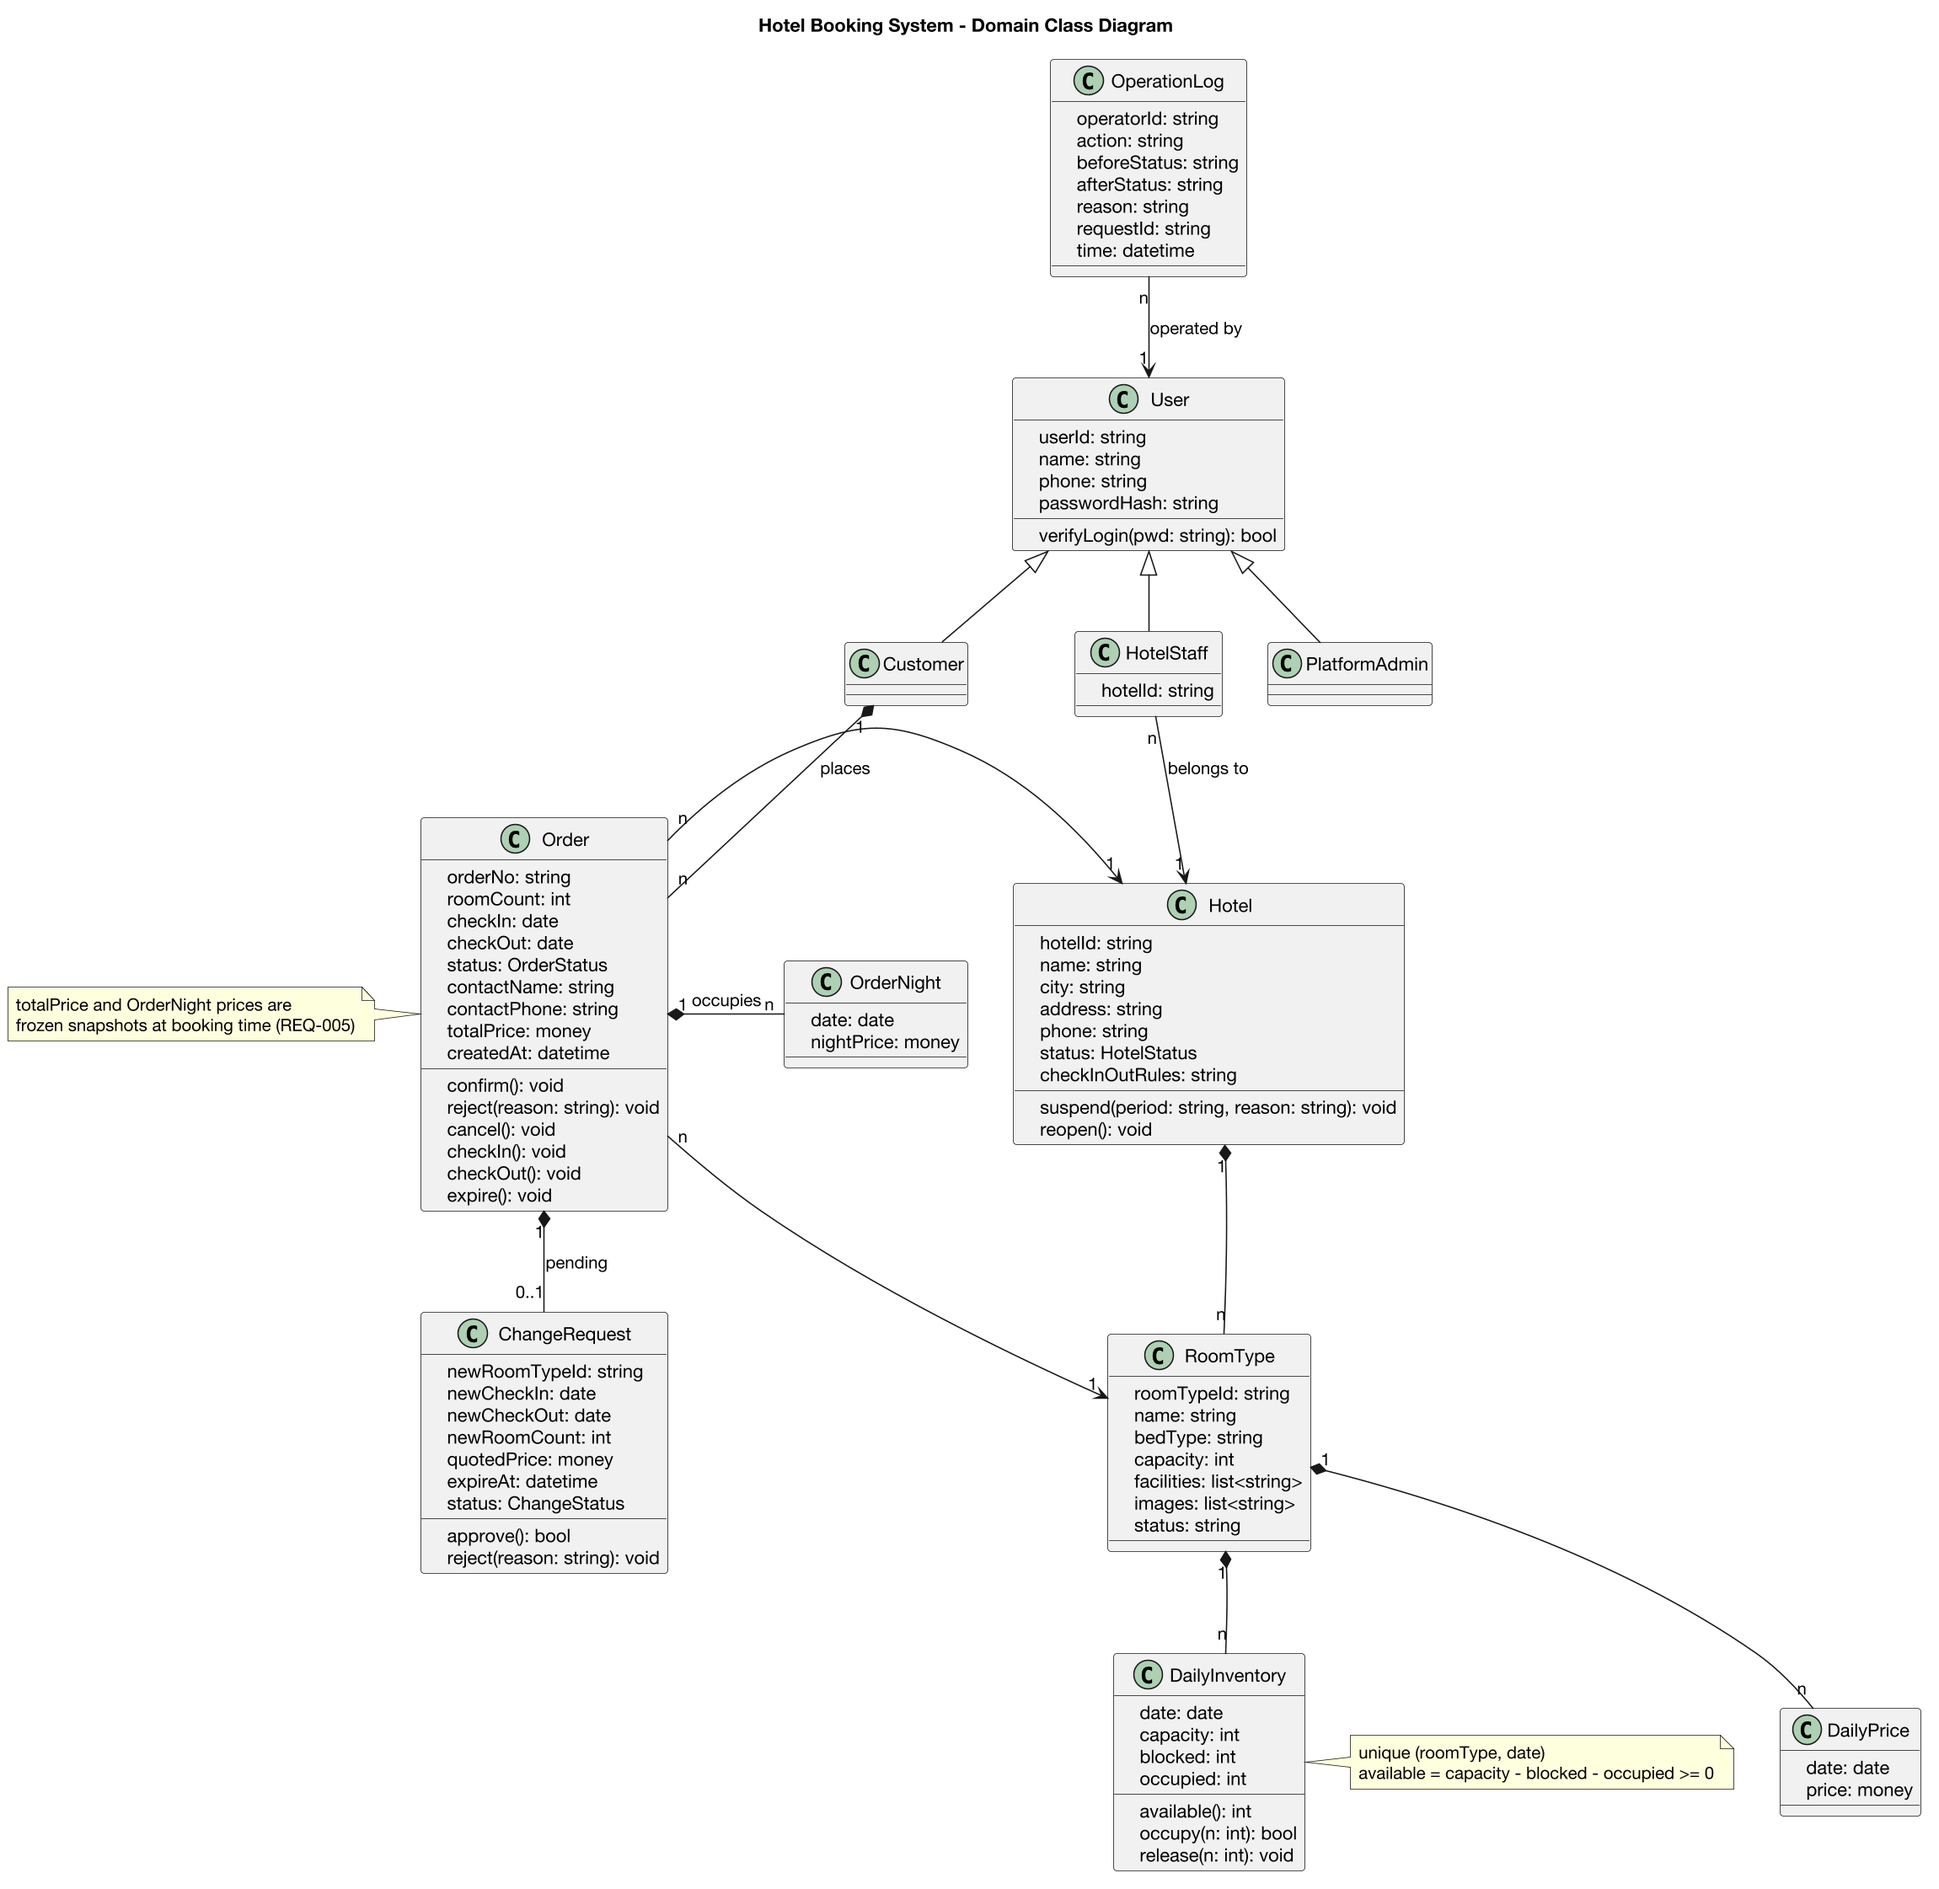
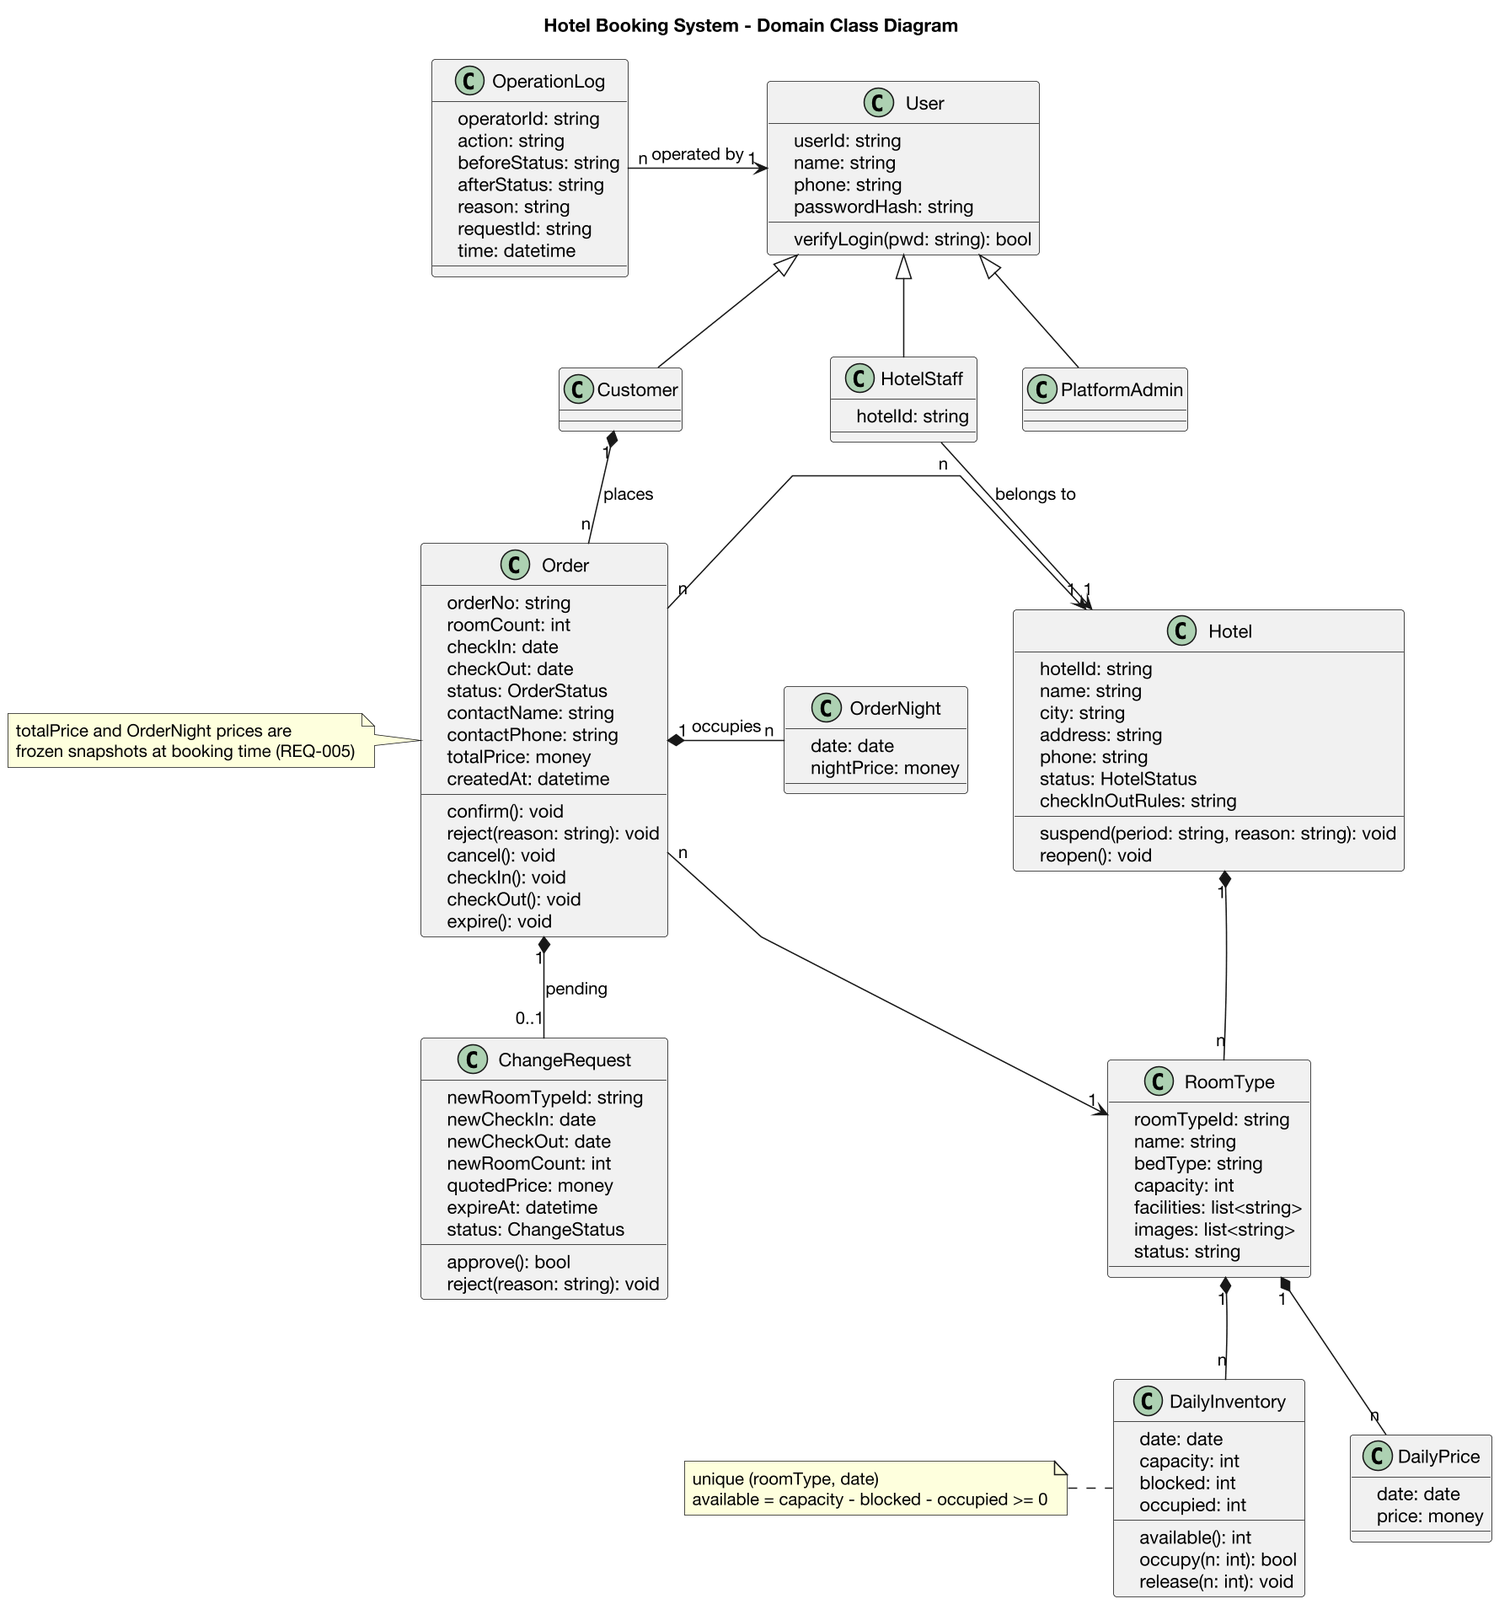
人工反馈+AI修改(lab2): 类图连线改直线、布局填满画面

diff --git a/lab2/过程材料/AI使用记录.md b/lab2/过程材料/AI使用记录.md
@@ -54,7 +54,8 @@
 - 「领域规则」三包（订单状态机 / 库存策略 / 报价策略）也落成类，与包图架构呼应；库存策略的差额替换对应 REQ-013。
 - 两条关键不变式写入图例：每日库存「房型+日期唯一、可售数 ≥ 0」（REQ-003）、价格快照冻结（REQ-005）。
 
-4. **第 4 版（人工反馈驱动，当前稿）**：本人审查后认为中文版「太复杂」，并提供一张英文简约风格的 PlantUML 类图样例作为目标。据此重做：类名、属性、方法全部改为英文（属性私有 `-`、方法公有 `+`，与样例图标一致）；删除包框、领域规则策略类与枚举框，只保留 11 个领域模型类；样式回归 PlantUML 默认灰白风格（与样例一致）；加隐藏辅助线让布局呈方形而非长条。
+5. **第 5~7 版（人工反馈驱动，当前稿）**：本人要求重构布局——填满画面、连线必须为直线。修改：`linetype polyline` 改曲线为直线段；OperationLog 移至 User 左侧、Customer 与 Order 垂直对齐、库存约束注释挂回 DailyInventory 左侧，消除大折线与误导性连线，画面呈方形且分布均匀。
+：本人审查后认为中文版「太复杂」，并提供一张英文简约风格的 PlantUML 类图样例作为目标。据此重做：类名、属性、方法全部改为英文（属性私有 `-`、方法公有 `+`，与样例图标一致）；删除包框、领域规则策略类与枚举框，只保留 11 个领域模型类；样式回归 PlantUML 默认灰白风格（与样例一致）；加隐藏辅助线让布局呈方形而非长条。
 
 ### 优缺点分析（待本人补充）
 
